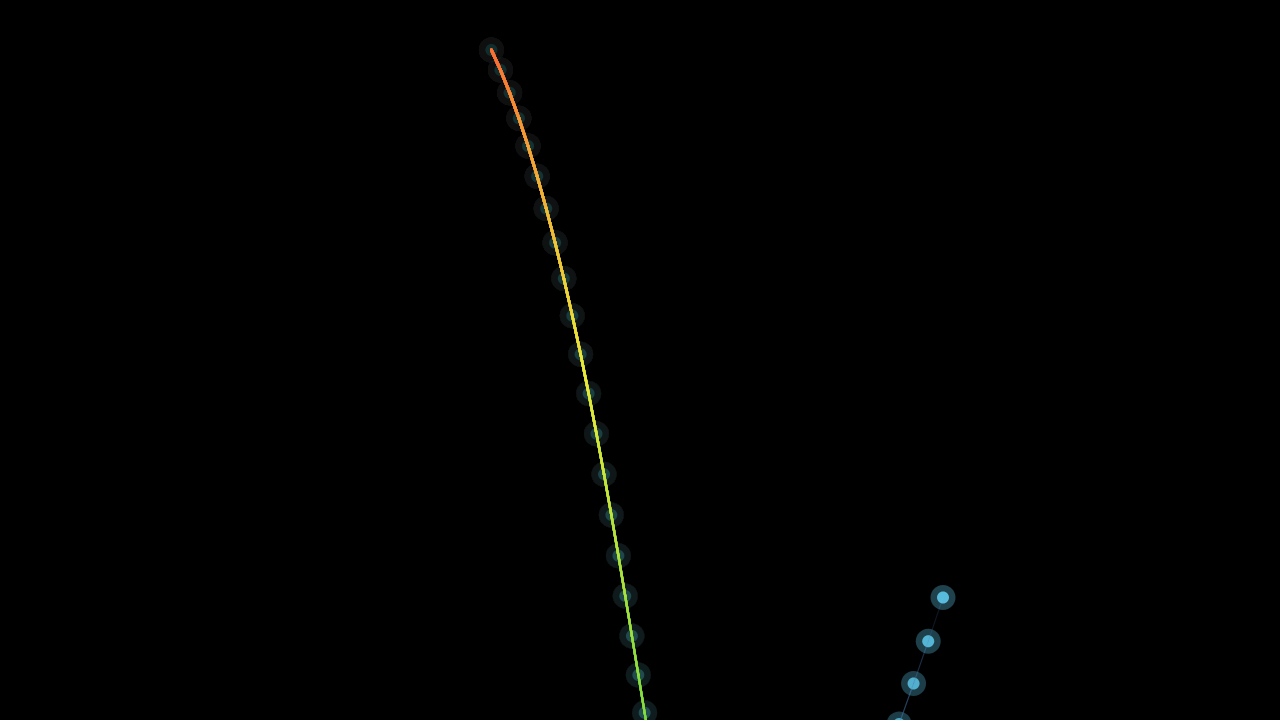
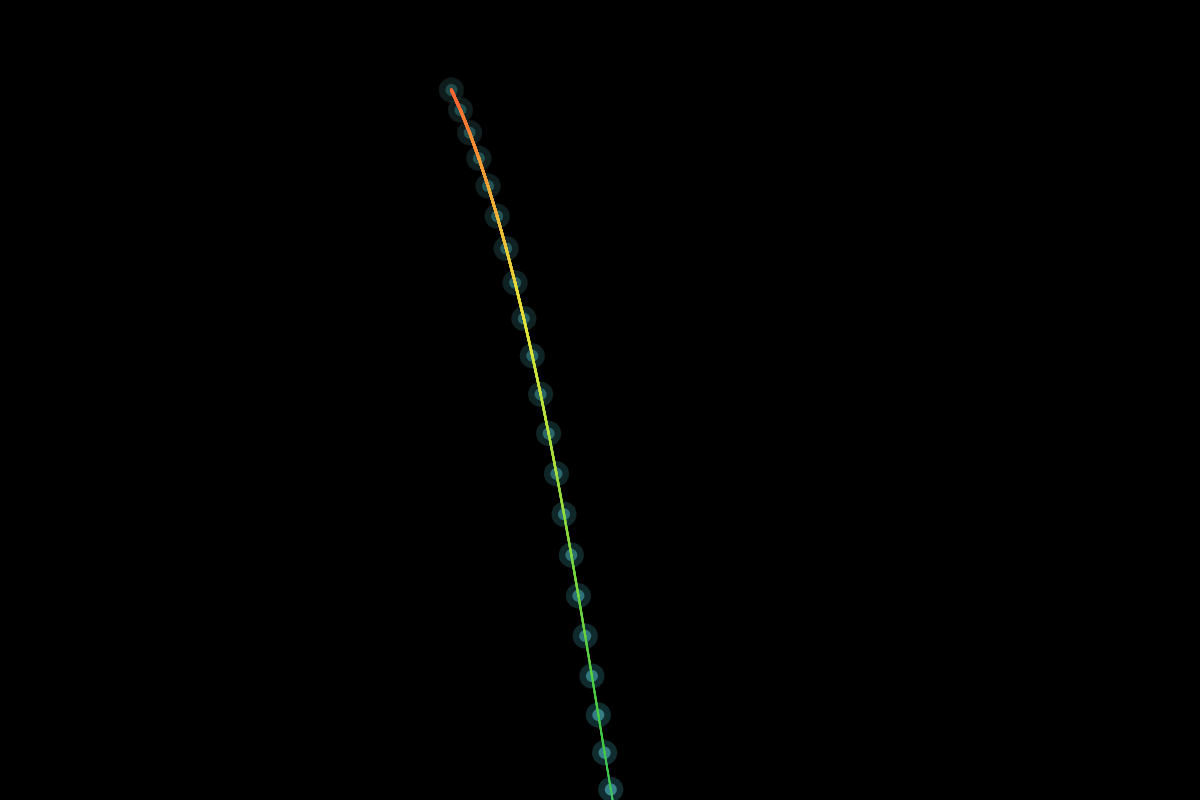
Add spirograph-harmonics to gallery with screenshot

Changed region(s): [[0.37, 0.0611, 0.5242, 1.0], [0.7092, 0.7944, 0.7708, 0.9778], [0.6783, 0.9778, 0.7092, 1.0]]

diff --git a/index.html b/index.html
@@ -331,6 +331,10 @@
       <img src="thumbs/spirograph-waves.png" alt="Spirograph Waves">
       <div class="card-title">Spirograph Waves</div>
     </a>
+    <a href="sketches/spirograph-harmonics.html" class="card">
+      <img src="thumbs/spirograph-harmonics.png" alt="Spirograph Harmonics">
+      <div class="card-title">Spirograph Harmonics</div>
+    </a>
     <a href="sketches/stasis-field.html" class="card">
       <img src="thumbs/stasis-field.png" alt="Stasis Field">
       <div class="card-title">Stasis Field</div>
